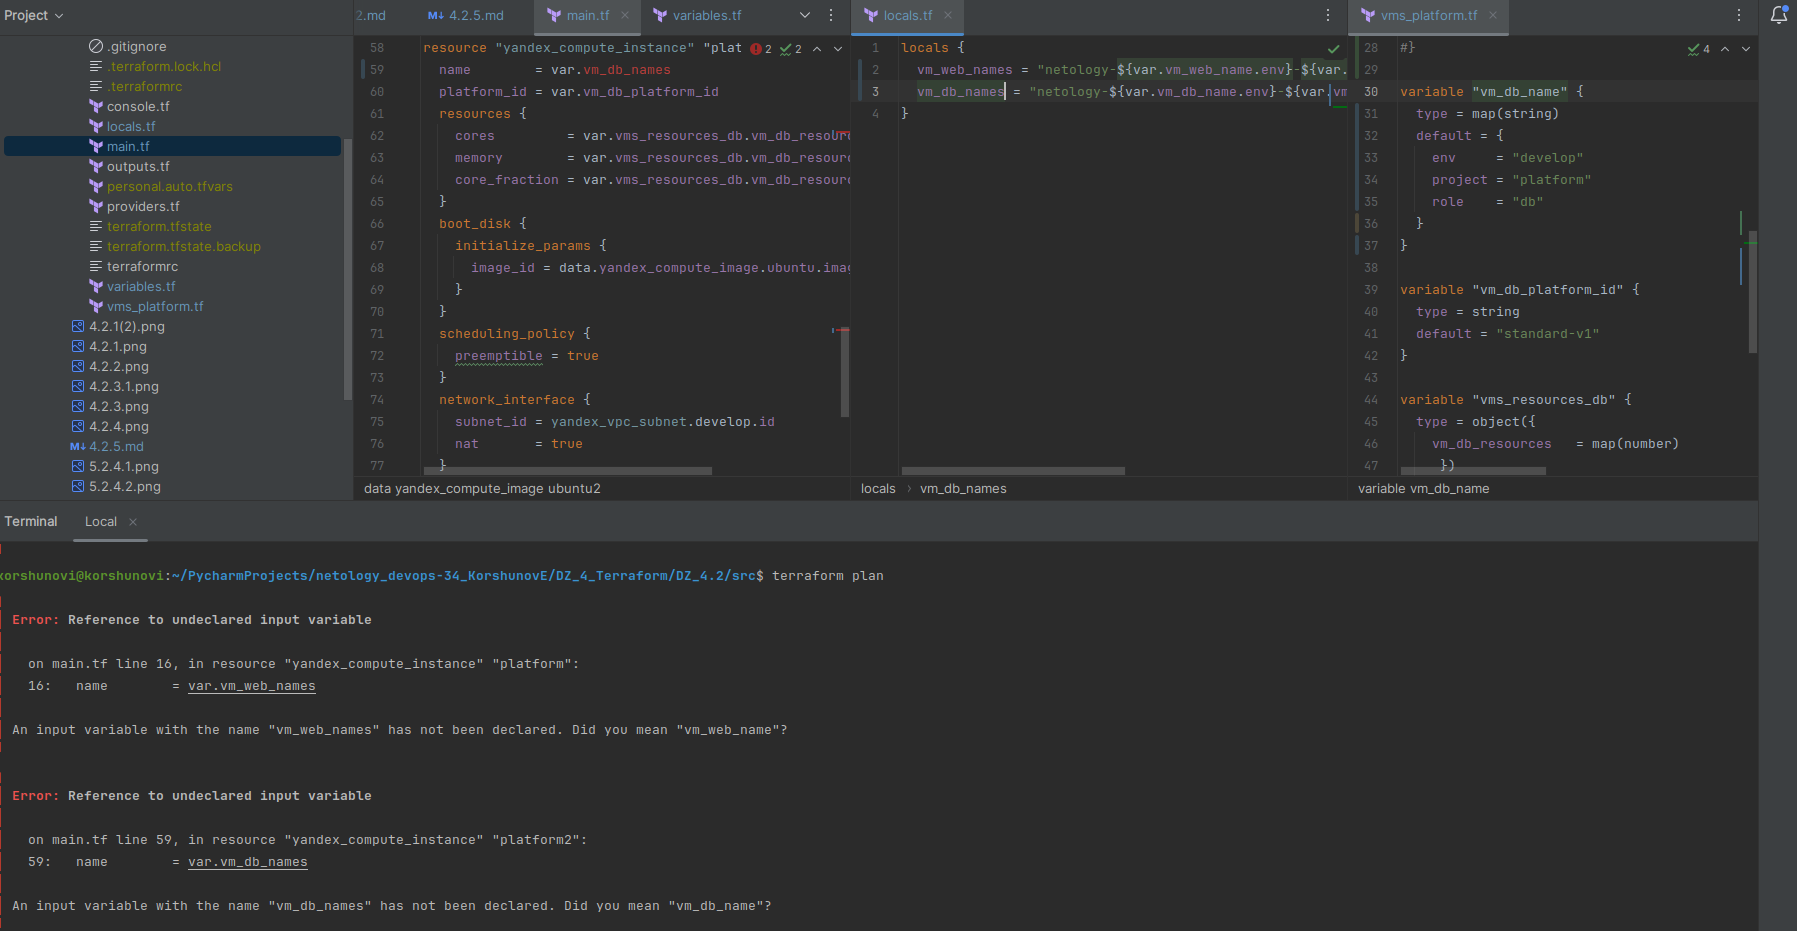
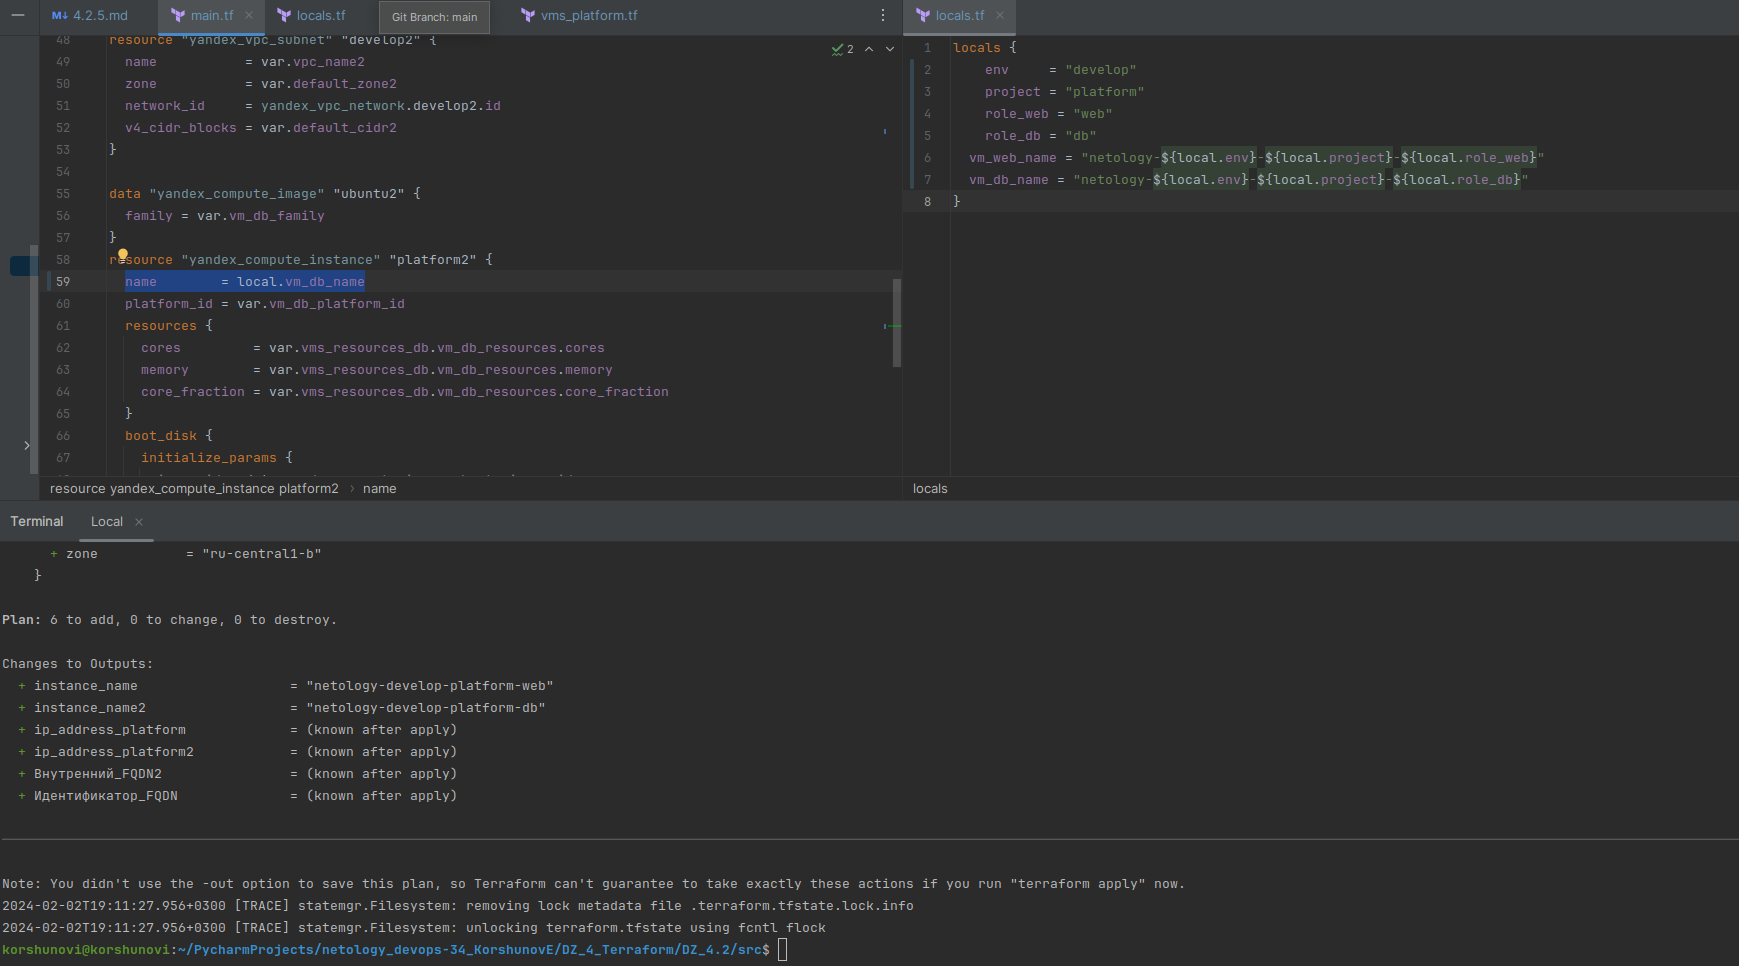
DZ_4.2.(dorabotka-3)

diff --git a/DZ_4_Terraform/DZ_4.2/4.2.5.md b/DZ_4_Terraform/DZ_4.2/4.2.5.md
@@ -1,17 +1,8 @@
-На сколько я понял, последовательность должна быть следующей: обращение в main.tf - locals.tf - (и vms_platform.tf и variables.tf). По комментарию на доработку по 5 заданию: в файлах vms_platform.tf и variables.tf данные прописывал так же как и в рекомендации (такой вариант я уже пробовал), ошибка сохраняется. Проблема видимо именно в последовательности файлов и одинаковых значениях vm_web_name и vm_db_name во всех файлах, похоже на то, что сейчас в начале считывается с vms_platform.tf и variables.tf и до  locals не доходит. Но если я меняю название в ```name        = var.vm_web_name``` в main.tf и locals.tf, а переменные с locals.tf указываю в vms_platform.tf и variables.tf, то получаю уже другую ошибку:
+Доработка 5 задания.
+
+По итогу получилось сделать через locals в таком виде:
 
 ![4.2.5 (dorabotka-1).png](4.2.5%20%28dorabotka-1%29.png)
-
-Изначальный вариант с ошибкой:
-
-![4.2.5 (dorabotka-2).png](4.2.5%20%28dorabotka-2%29.png)
-
-Ещё варианты:
-
-![4.2.5 (dorabotka-3).png](4.2.5%20%28dorabotka-3%29.png)
-
-![4.2.5 (dorabotka-4).png](4.2.5%20%28dorabotka-4%29.png)
-
 
 ## Дополнительное задание (со звёздочкой*)
 
